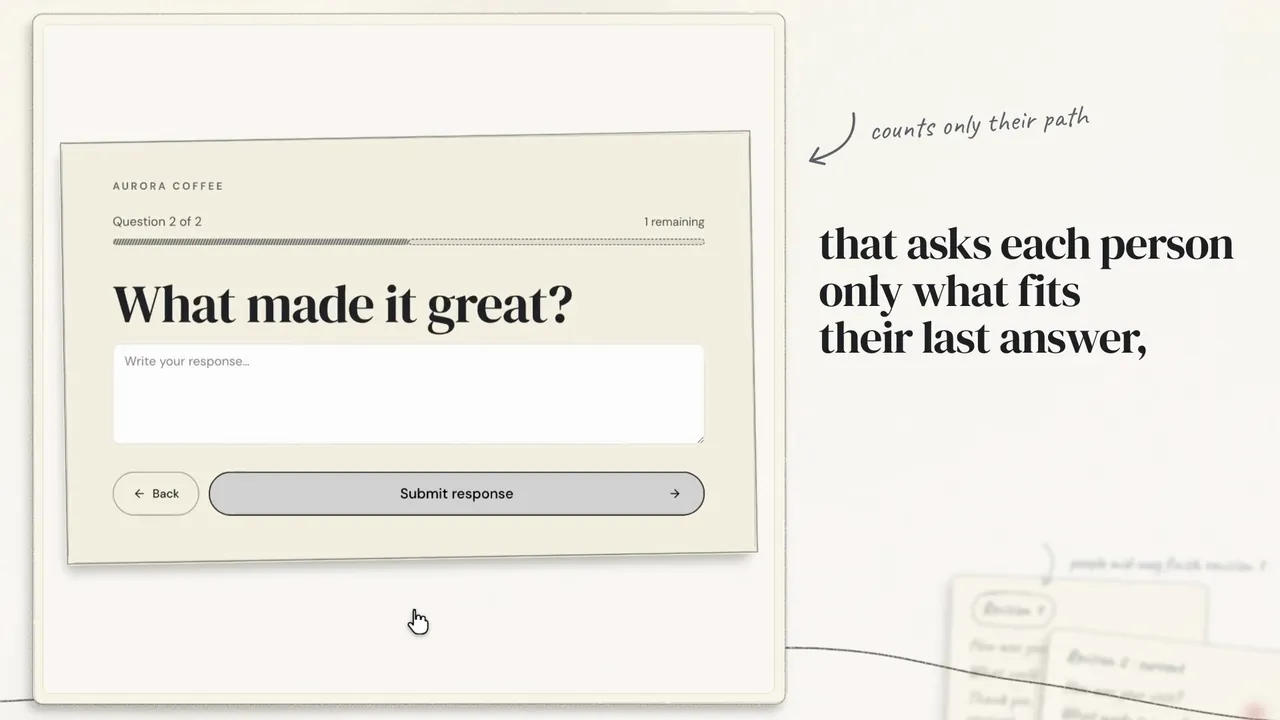
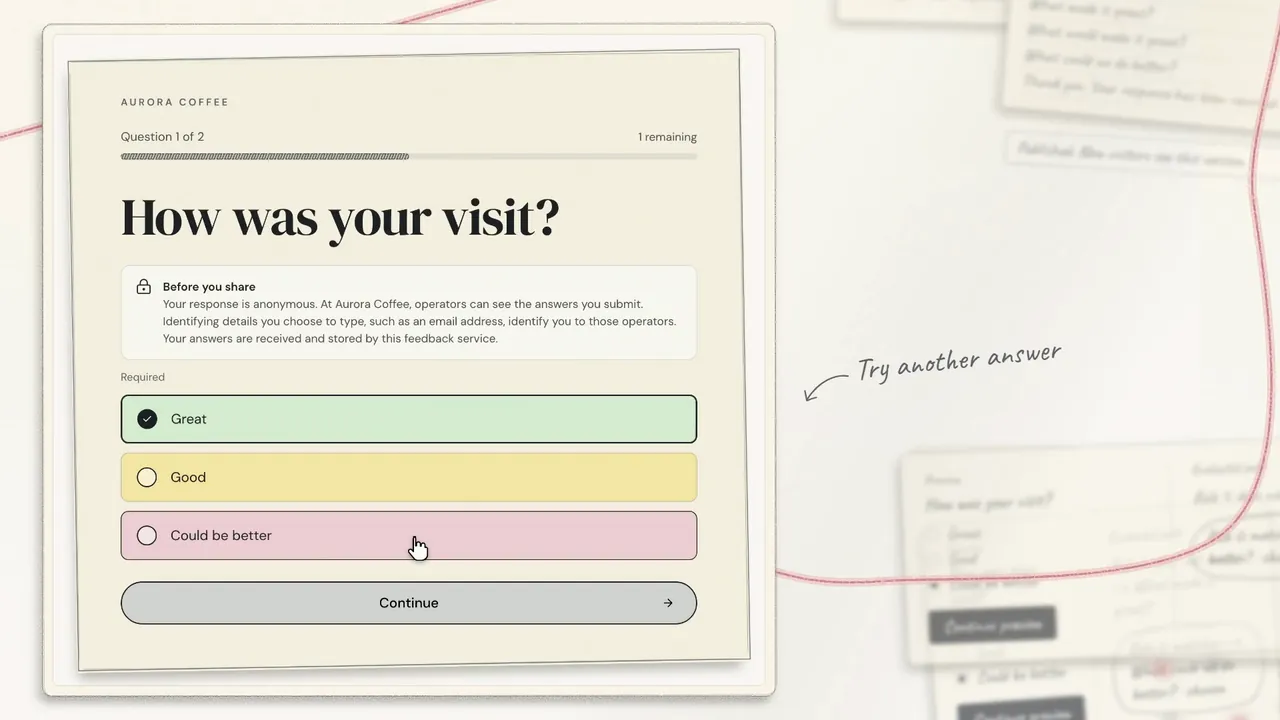
feat: final launch reels for mango, dial and pencil

diff --git a/src/data/seeds.ts b/src/data/seeds.ts
@@ -189,7 +189,7 @@ export const seeds: Seed[] = [
     mark: `${dir('pencil')}/mark.svg`,
     markLight: `${dir('pencil')}/mark-light.svg`,
     markInk: null,
-    reel: reel('pencil', 46.9),
+    reel: reel('pencil', 50.4),
   },
   {
     slug: 'orbit',
@@ -231,7 +231,7 @@ export const seeds: Seed[] = [
     mark: `${dir('mango')}/mark.svg`,
     markLight: null,
     markInk: null,
-    reel: reel('mango', 45),
+    reel: reel('mango', 55.6),
   },
   {
     slug: 'dial',
@@ -252,7 +252,7 @@ export const seeds: Seed[] = [
     mark: `${dir('dial')}/mark.svg`,
     markLight: null,
     markInk: null,
-    reel: reel('dial', 43.9),
+    reel: reel('dial', 48.1),
   },
   {
     slug: 'penny',
